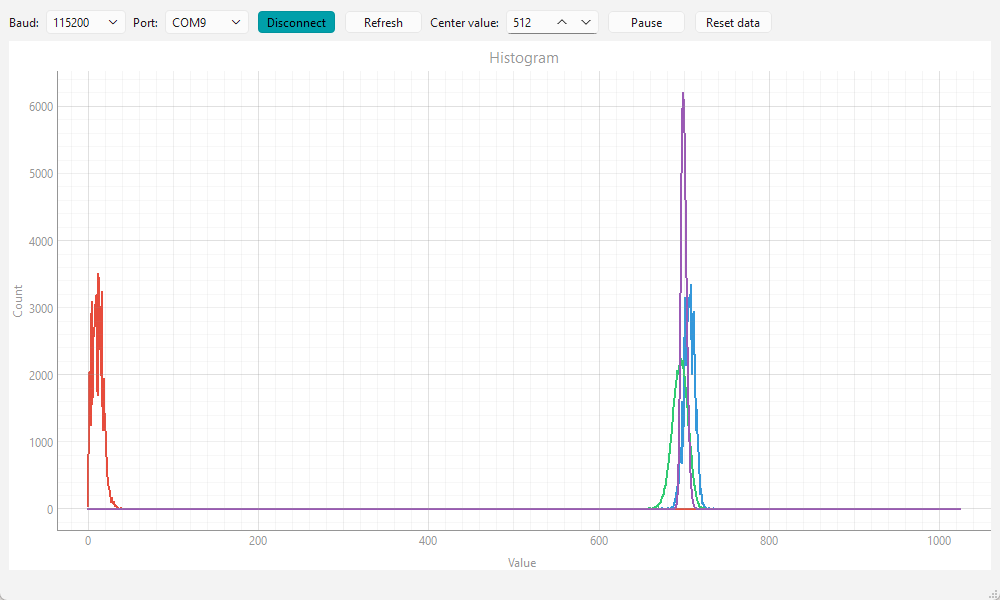
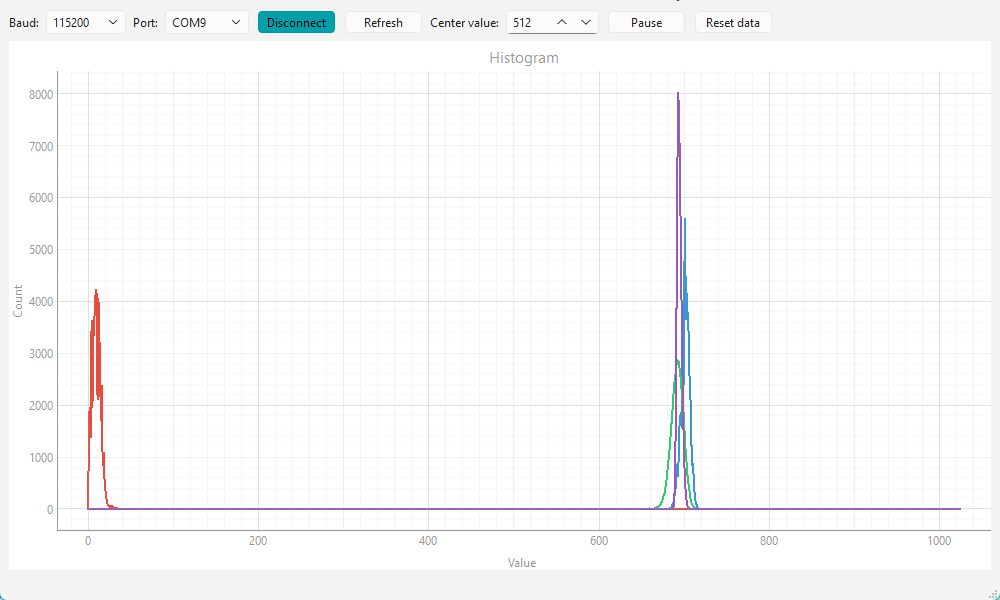
slight restructure amd more clear diagrams

diff --git a/docs/sensors/wall-sensors/ambient-cancellation-and-noise.md b/docs/sensors/wall-sensors/ambient-cancellation-and-noise.md
@@ -11,17 +11,21 @@ icon: octicons/dot-16
 
 # Ambient Illumination and Noise
 
-Measuring the ambient light is essential so that we can eliminate eliminate it from our measurements and isolate only the signal caused by the proximity of the walls. In principle is is very easy to do with two measurements. One measurement is taken with the emitter off (the 'dark' reading, $A_{dark}$) and then another is taken with the emitter on (the 'lit' reading , $A_{lit}$). Now the raw distance reading , $A_{raw}$, is just the difference between them
+The basic micromouse wall sensor determines the distance to nearby walls by measuring the amount of light reflected from them when illuminated by an LED. There are other sources of light that also illuminate the walls and so we need a way to account for that in the measurement and isolate only the signal caused by robot's LED and the proximity of the walls. 
+
+In principle it is very easy to do with two measurements. One measurement is taken with the emitter off (the 'dark' reading, $A_{dark}$) and then another is taken with the emitter on (the 'lit' reading , $A_{lit}$). Now the raw distance reading , $A_{raw}$, is just the difference between them
 
 $$
 A_{raw} = A_{lit} - A_{dark}
 $$
 
+The first reading captures the ambient light and the second cptures the ambient light plus the reflected light. Subtracting one from the other will remove the effect of the ambient light.
+
 In a perfect world, $A_{raw}$ would be a single, stable number related to the distance to the wall. Real sensor systems are very unlikely to behave that well. The whole sensor system has several sources of noise and interference which can be divided into two broad categories:
 
 - **Measurement Noise**
 
-    This is noise in the measured signal that is a result of some aspect of the whole sensor measurement system. It may be the behaviour of the ADC, power supply noise, interference from other circuits on the robot or poor PCB layout.
+    This is noise in the measured signal that is a result of some aspect of the whole sensor measurement system. It may be the behaviour of the ADC, power supply noise, interference from other circuits on the robot or poor PCB layout. 
 
 - **Process Noise**
 
@@ -31,7 +35,7 @@ For the time being, we we'll treat all these as just 'noise'. Later, some of the
 
 ## Noise
 
-Inevitably, any measurement system will have some noise. Some possible sources of that noise have already been listed. An experiment will let us see how significant that might be in a basic micromouse wall sensor.
+Inevitably, any measurement system will have some noise. Noise, for our purposes, is any variation in the measurement that is not caused by the wall distance. Some possible sources of that noise have already been listed. An experiment will let us see how significant that might be in a basic micromouse wall sensor.
 
 For simple experiments, a circuit is built on a breadboard so that some of these effects can be examined. A processor module carries the STM32U575 processor, a constant-current source provides the drive for an emitter LED and a phototransistor detector has a load resistor to ground, providing a voltage proportional to the photocurrent. The emitter is a SFH4550 with 100mA pulses and the detector is a SFH309-FA. The -FA suffix indicates that the part has a filter that blocks visible light.
 
@@ -40,29 +44,40 @@ For simple experiments, a circuit is built on a breadboard so that some of these
 Sensor Test Rig
 ///
 
-The system operates the sensor exactly as it might on a micromouse. The emitter pulses are 25us long and the ADC is sampled before and at the end of the emitter pulse. The dark an lit readings are then printed out to the serial port followed by the raw value and a filtered version of the raw value. Four numbers altogether.
+The system operates the sensor exactly as it might on a micromouse. The emitter pulses are 25us long to allow the detector to reach a steady state, and the ADC is sampled before and at the end of the emitter pulse. The dark an lit readings are then printed out to the serial port followed by the raw value and a filtered version of the raw value. Four numbers altogether.
 
 A Python script reads these numbers and draws a live-updating frequency histogram for each. In the charts below, the x-axis is ADC counts and the converter has a 16 bit resolution. Each count then is worth just 0.2mV and the minor grid lines are 20 counts (4mV) apart. To keep things visible on one chart, the wall is placed 70mm away and the detector load adjusted to give readings in a useable range.
 
-### Noise Baseline
+Here is a typical chart produced after collecting 50,000 samples when the room is lit by daylight and a very small amount of weak sunlight on a wall 4m away. A large number of samples lets us see a statistically meaningful distribution.
 
-To get an idea of how well the processor and its ADC are working, we start by connecting the ADC input to a nearby low impedance voltage divider and recording the results for a minute or two:
-
-![Noise Baseline](../../assets/sensors/potential-divider-baseline.png)
+![Typical Histogram](../../assets/sensors/typical-histogram.png)
 /// caption
-Noise Baseline
+Typical Histogram Plot
 ///
 
-There are actually four lines on the chart though they are drawn one over another so you may not always see them all.
+There are four lines on the chart, drawn one over another so you may not always see them all in other plots.
 
 - Red: the dark reading $A_{dark}$
 - Blue: the lit reading $A_{lit}$
 - Green: the raw reading $A_{raw}$
 - Magenta: the filtered raw reading $A_{filt}$
 
-In this chart you can see that the lit and dark readings are nearly identical, so the raw and filtered readings are (pretty much) zero. There is some noise as evidenced by the spread in the lit and dark readings. This appears to be purely random (Gaussian) noise. Because this noise is not identical for the lit and dark values there is also some small spread in the raw value.
+The background illimination (red) is not very strong and shows a fair amount of spread. This spread represents noise. Note that the area under each line is the same - it is the total number of samples. A signal with a lot of noise will display as a lower, wider plot and a signal with very little noise will be taller and narrower. Here, both the dark and lit (blue) readings produce much the same shape plots with the lit readings shifted right by an amount proportional to the amount of light from the emitter that is reflected by the wall.
 
-Note that in a chart like this, the area under the line is the number of readings taken. That means that a signal with a lot of noise will appear to have a wider spread and lower peak compared to one that has very little noise where you would see a narrower, but higher, peak.
+As described before, the raw reading (green) is just the lit reading minus the dark reading. Also plotted on the chart is a filtered copy (magenta) of the raw reading. A simple low-pass filter is applied to the raw reading to get a very clean, esimate of distance. The filtering is defined in a separate page.
+
+If the only light falling on the wall when the emitter is off is that from the environment then you might wonder why there is so much apparent noise (the wide spread of values). After all, the sunlight will only vary slowly as clouds pass in front of it.
+
+### Noise Baseline
+
+To get an idea of how well the processor and its ADC are working, we start by connecting the ADC input to a nearby low impedance voltage divider made with 4700 Ohm and 220 Ohm resistors to give a constant voltage of about 190mV, and recording the results for a minute or two:
+
+![Noise Baseline](../../assets/sensors/potential-divider-baseline.png)
+/// caption
+Noise Baseline
+///
+
+In this chart you can see that the lit and dark readings are nearly identical (there is only the tiniest hint of the dark readings peeping out behind the lit readings), so the raw and filtered readings are (pretty much) zero. There is obviously some noise as evidenced by the spread in the lit and dark readings. This appears to be purely random (Gaussian) noise. Because this noise is not identical for the lit and dark values there is also some small spread in the raw value.
 
 Because the lit and dark readings have the same underlying value, subtracting them removes the common part of the signal - that would be the ambient illumination and any other constant offset voltage. The noise itself doesn’t cancel - it adds - but since the mean is zero, the result is a narrow, high peak.
 
@@ -72,18 +87,34 @@ Another important observation is that the lit and dark values have almost identi
 
 Now we have some idea about the noise that appears to be intrinsic to the measurement system, and we are confident that the emitter pulses are not causing any side effects in the detected signal.
 
-The next step is to connect the ADC input to the detector and perform a measurement against a fixed wall. For now, the ambient illumination is an LED lamp in the ceiling. This has almost no IR output and so it should not affect the detector owing to the filter on the SFH309-FA. This, and all future runs, capture exactly 50,000 results in the histogram.
+The next step is to connect the ADC input to the detector and perform a measurement against a fixed wall. The ambient illumination in this plot is diffuse daylight in a not-very-well-lit room.
+
+![LED Ambient](../../assets/sensors/diffuse-daylight-response.png)
+/// caption
+Diffuse Daylight Response
+///
+
+The low level of ambient illumination is clear and the noise component, as evidenced by the spread, is a little bigger. Part of that spread will be due to the effect of clouds passing by and changing the overall amount of light in the room. Even taking that into account, there is still more random noise in these signals. The most likely reason for that is the circuit construction on breadboard being less than ideal.
+
+Normally, I work on this at night with only the LED room lighting available so that I can guarantee reproducible results. This is the same experiment with only artificial LED lighting:
 
 ![LED Ambient](../../assets/sensors/LED-ambient-illumination.png)
 /// caption
 Record with LED lighting
 ///
 
-It should be clear that the dark readings (red) are still able to pick up some interference from somewhere, even with LED lighting. The variance (spread of values) is larger than we saw with the potential divider and the curve is not very neat. This may be due to some power supply noise since the layout on breadboards is less than ideal. The lit response (blue) has a similar shape though it is not so easy to see in this record because the low ambient illumination  means that the raw value (green) is close to the lit value.
-
 You should notice that the raw reading still has a similar variance to that seen in the lit value but the shape is much cleaner. Any external or other noise that does not change much between sample intervals (25us) will be cancelled out by the raw reading calculation. The filtered raw values (magenta) are very clean as you might expect.
 
-The ambient illumination can be increased significantly by lighting the rig with a LED table lamp about 15cm from the wall surface. When the run is repeated under these conditions, this is the result.
+All the remaining experiments are run under the same artificial light.
+
+The ambient illumination can be increased significantly by lighting the rig with a LED table lamp about 15cm from the wall surface. 
+
+![LED Table Lamp Added](../../assets/sensors/LED-lamp-illumination.png)
+/// caption
+Brighter LED Illumination
+///
+
+When the run is repeated under these conditions, this is the result.
 
 ![Bright LED Ambient](../../assets/sensors/LED-ambient-illumination-bright.png)
 /// caption
@@ -94,7 +125,12 @@ This result is almost indistinguishable from the previous experiment, and demons
 
 ### Steady Ambient IR illumination
 
-Modern LED interior lighting often produces little IR radiation and so it can be easy to underestimate the effect of sunlight and other lighting types that do emit IR. It would be very optimistic to expect a sensor like this to operate reliably in direct sunlight but there may be indirect, or partially occluded, sunlight falling on the walls of a contest maze. An easy way to simulate this is with an old-fashioned flashlight containing an incandescent bulb. 
+Modern LED interior lighting clearly produces little IR radiation and so it can be easy to underestimate the effect of sunlight and other lighting types that do emit IR. It would be very optimistic to expect a sensor like this to operate reliably in direct sunlight but there may be indirect, or partially occluded, sunlight falling on the walls of a contest maze. An easy way to simulate this is with an old-fashioned, battery-powered flashlight containing an incandescent bulb. 
+
+![Flashlight simulates daylight](../../assets/sensors/simulating-daylight.png)
+/// caption
+Simulating daylight with a flashlight
+///
 
 The wall is illuminated in this way and another run is made.
 
@@ -103,7 +139,7 @@ The wall is illuminated in this way and another run is made.
 Record with IR illumination from a flashlight.
 ///
 
-The flashlight produces a almost constant level of illumination and the effect of that is very clear from the result chart. With the flashlight dominating the readings, even when the emitter is off, the noise variance returns to the intrinsic measurement noise level seen earlier. Remember that one minor division on these charts is only about 4mV variation in the reading. The dark readings are all clustered around about the 180 mark and the lit readings are also shifted up by the same amount. Since both the dark and the lit readings have been shifted by the same amount, the raw reading, being the difference between them remains almost exactly the same. Close inspection reveals it to be slightly higher than before because, with this type of sensor, there is a small change in gain with the level of illumination. For this particular example, the change is about 1.5% and the level of IR illumination at the wall is quite significant.
+The flashlight produces a almost constant level of illumination and the effect of that is very clear from the result chart. The results look a lot like those recorded with only natural daylight available. With the flashlight dominating the readings, even when the emitter is off, the noise variance returns to the intrinsic measurement noise level seen earlier. Remember that one minor division on these charts is only about 4mV variation in the reading. The dark readings are all clustered around about the 180 mark and the lit readings are also shifted up by the same amount. Since both the dark and the lit readings have been shifted by the same amount, the raw reading, being the difference between them remains almost exactly the same. Close inspection reveals it to be slightly higher than before because, with this type of sensor, there is a small change in gain with the level of illumination. For this particular example, the change is about 1.5% and the level of IR illumination at the wall is quite significant.
 
 ### Variable Ambient IR illumination
 
@@ -116,7 +152,9 @@ Record with IR illumination from an incandescent bulb.
 
 Notice how both the dark and lit responses are much more spread out. Each has two peaks because more samples correspond to the brighter portions of each cycle than the darker portions that correspond to the current through the lamp passing through zero. The filament does not cool down enough to stop glowing, it just puts out a little less light.
 
-In spite of that spreading, the raw value response is very clean and looks exactly like that for the steady IR illumination from the flashlight. Although the table lamp is clearly varying a lot in intensity, those changes are very slow compared to the 25us interval between readings that the sensors can manage.
+In spite of that spreading, the raw value response is very clean and looks exactly like that for the steady IR illumination from the flashlight. Although the table lamp is clearly varying a lot in intensity, those changes are very slow compared to the 25us interval between readings that the sensors can manage. Overall, ambient cancellation only works if the ambient illumination changes slowly compared to the measurement interval.
+
+Becase the ambient does change only slowly, the dark and lit readings experience almost the same ambient level and so the subtraction cancels it.
 
 ### Visible Light Sensors
 
